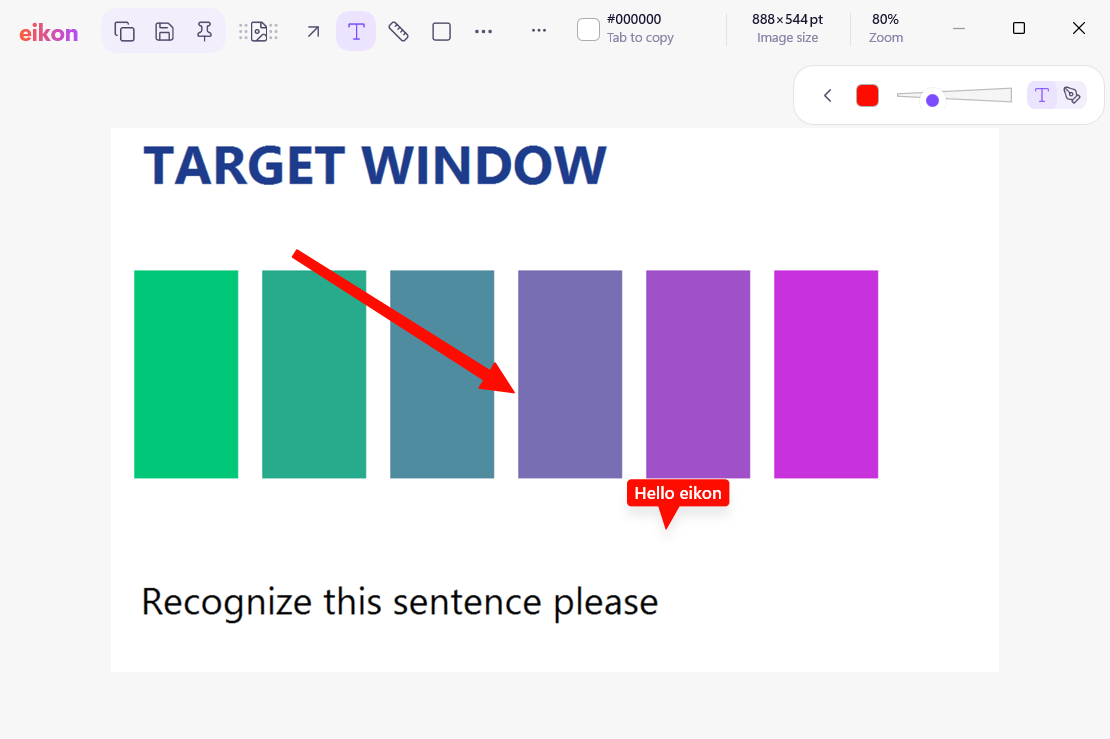
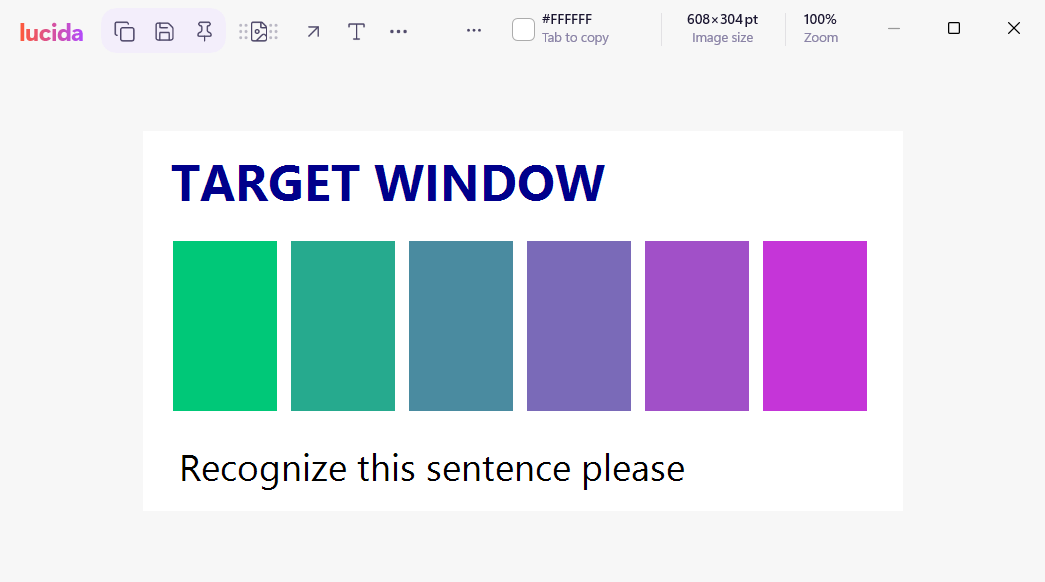
README screenshots show the Lucida name
Both captures are from the Lucida build on Windows 11: the welcome screen with the lucida wordmark, and the editor with a capture open. The editor image has no annotation now, so its caption says so.

Amp-Thread-ID: https://ampcode.com/threads/T-01a1c769-36f0-73cf-a236-6a502dc54ff6

diff --git a/README.md b/README.md
@@ -11,7 +11,7 @@ certificate, then Lucida installs and starts in the notification area.
 
 ![The empty editor's welcome screen](docs/screenshot-welcome.png)
 
-![The editor with an arrow and a text annotation](docs/screenshot-editor.png)
+![The editor with a capture open](docs/screenshot-editor.png)
 
 ## Features
 
